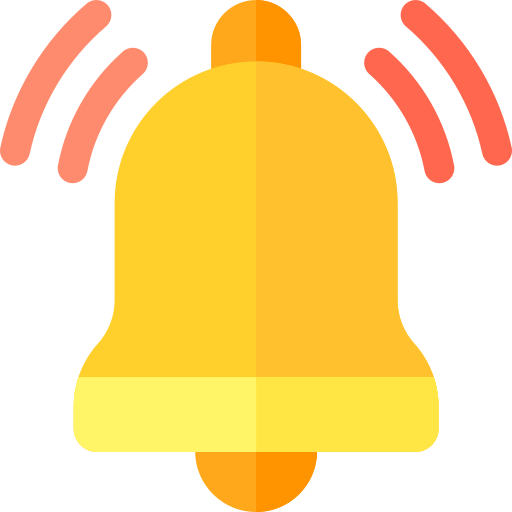
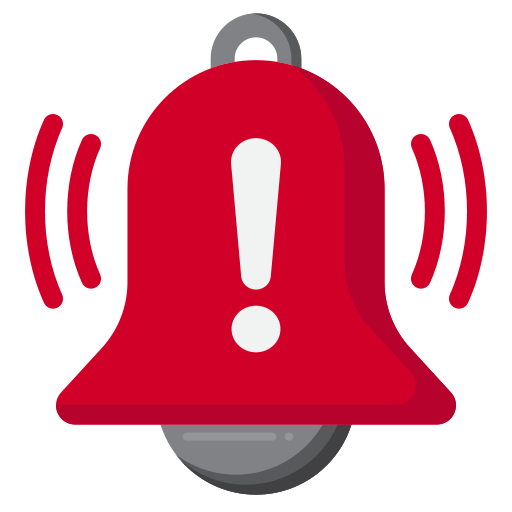
update emergency alerts card image

diff --git a/client/html/userDashboard.html b/client/html/userDashboard.html
@@ -291,7 +291,7 @@
 
             <!-- Middle Column -->
             <div class="flex flex-col gap-6">
-                <!-- View Notifications Card -->
+                <!-- Emergency Alerts Card -->
                 <a id="view-notifications-card" class="card-link cursor-pointer">
                     <div
                         class="bg-white shadow-lg rounded-lg p-4 hover:shadow-xl transition transform hover:scale-105 flex flex-col">
